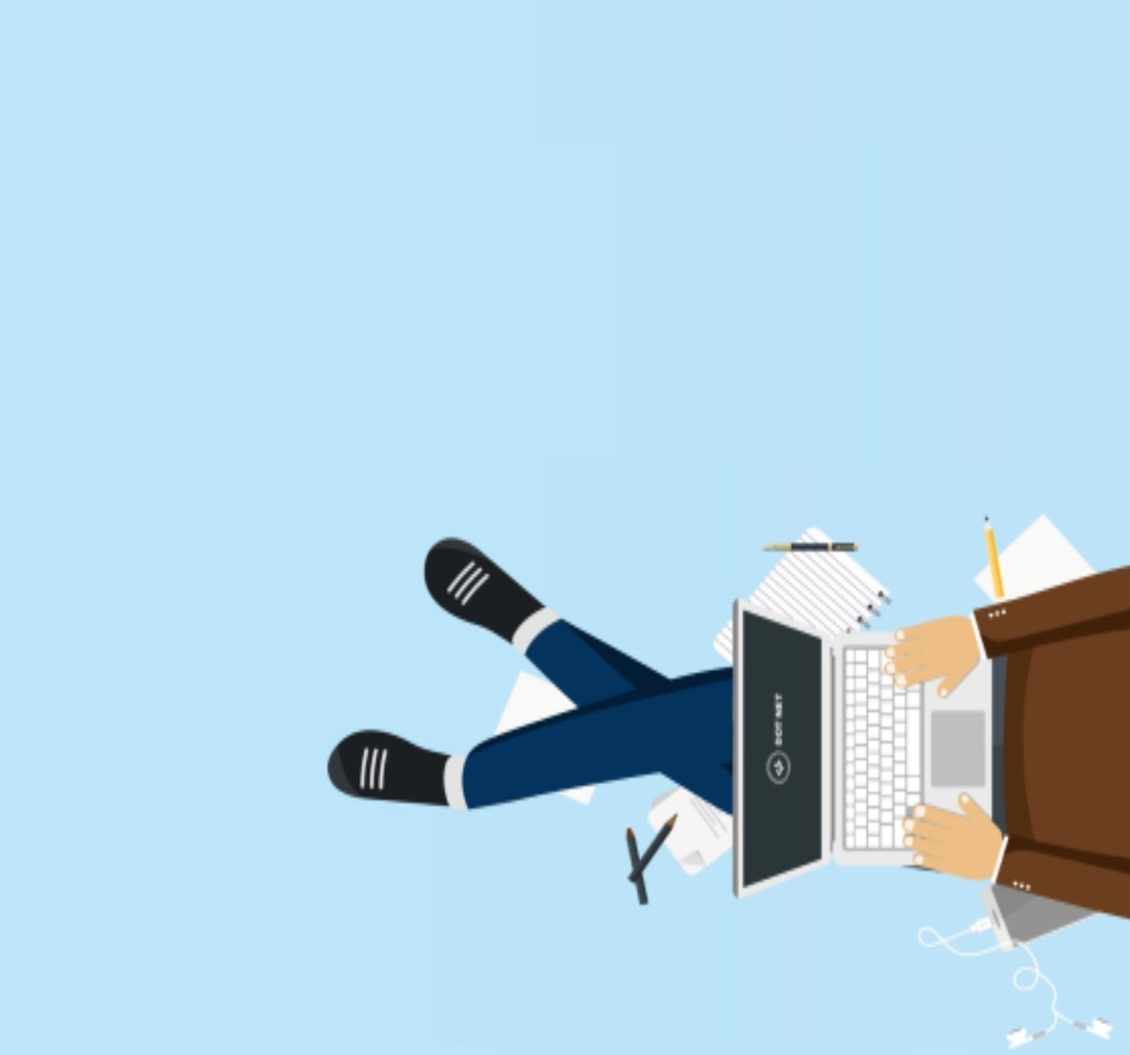
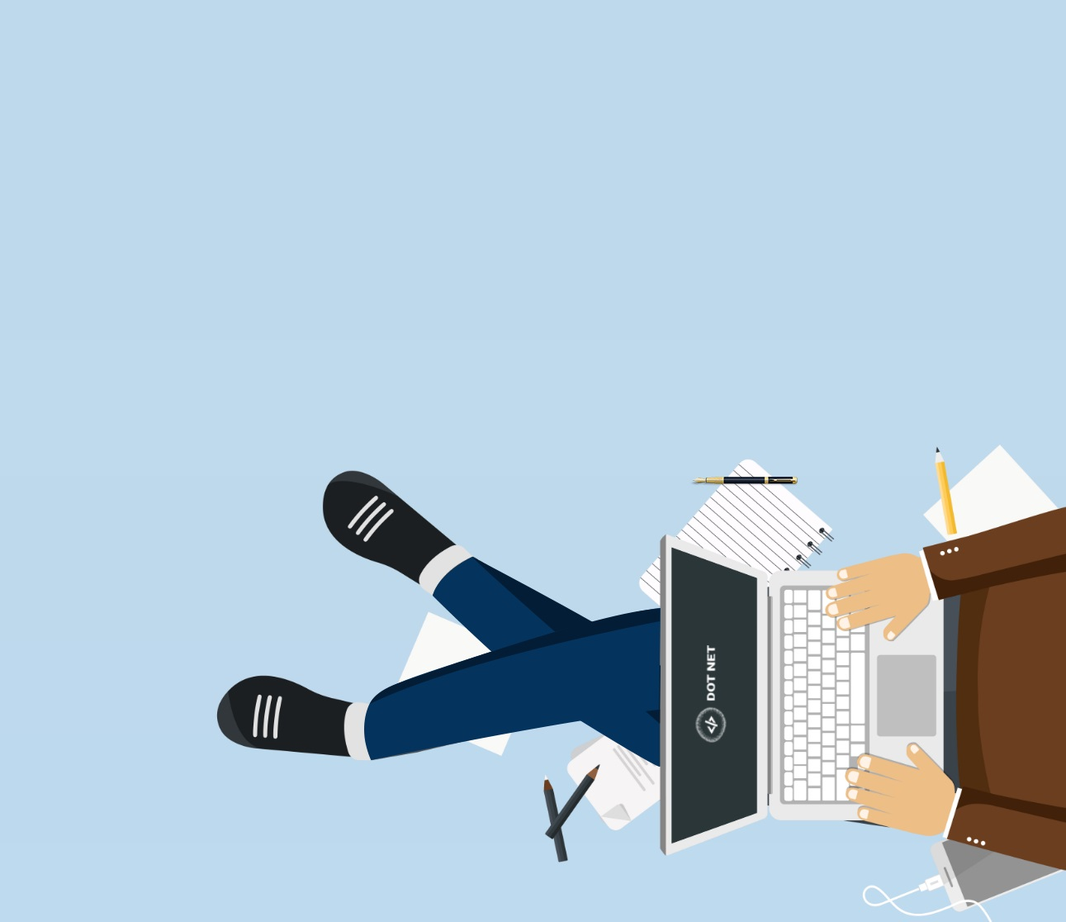
added

Changed region(s): [[0.1859, 0.4875, 1.0, 1.0]]

diff --git a/dist/css/style.min.css b/dist/css/style.min.css
@@ -1,1 +1,1 @@
-@font-face{font-family:Poppins;font-display:swap;src:url(../fonts/Poppins-Medium.woff2) format("woff2"),url(../fonts/Poppins-Medium.woff) format("woff");font-weight:500;font-style:normal}@font-face{font-family:Poppins;font-display:swap;src:url(../fonts/Poppins-Bold.woff2) format("woff2"),url(../fonts/Poppins-Bold.woff) format("woff");font-weight:700;font-style:normal}*{font-family:Poppins,sans-serif;box-sizing:border-box;margin:0;padding:0}.container{max-width:1140px;margin:0 auto;padding:0}.divider{width:60px;height:3px;background:#ffa501;border-radius:4px;margin:25px auto 0 auto}.title{color:#000;font-weight:700;font-size:36px}.title_font-size-14{font-size:14px}.title_font-size-16{font-size:16px;line-height:24px}.title_font-size-20{font-size:21px}.title_font-size-21{font-size:21px}.title_font-size-48{font-size:48px;line-height:60px}.title__section-title{position:relative;text-align:center}.title__section-title:before{position:absolute;content:"";width:36px;height:36px;background-color:#ffa501;border-radius:100%;z-index:-1;top:-25%;left:0}.title__section-title:before{top:-6px;left:50%;transform:translateX(-50%)}.promo{min-height:100vh;position:relative;background:url(../../img/Background.jpg) center center/cover no-repeat;padding-top:206px}.promo__title{width:530px;margin-top:10px}.promo__subtitle{position:relative;padding-left:10px;z-index:4}.promo__subtitle:before{position:absolute;content:"";width:36px;height:36px;background-color:#ffa501;border-radius:100%;z-index:-1;top:-25%;left:0}.promo__btns{margin-top:25px;display:flex;width:250px;align-items:center;justify-content:space-between}.promo__link{color:#000;text-decoration:none;color:#000;font-size:14px;font-weight:700}.btn{height:45px;background:#ffa501;box-shadow:0 4px 4px 0 rgba(0,0,0,.15);padding:12px 25px;border-radius:4px}.sidepanel{position:fixed;top:230px;left:50px;display:flex;flex-direction:column;justify-content:space-between;align-items:center;height:340px;z-index:3}.sidepanel__divider{width:2px;height:70px;background-color:#000}.sidepanel__text{height:150px;width:25px}.sidepanel__text span{display:block;color:#000;margin-top:15px;font-size:16px;font-weight:700;transform:rotate(-90deg) translate(-30%,-260%);width:150px}.hamburger{position:absolute;top:30px;right:40px;height:22px;display:flex;flex-direction:column;justify-content:space-between;align-items:flex-end;cursor:pointer}.hamburger span{display:block;width:30px;height:4px;background-color:#151812}.hamburger span.long{width:36px}.menu{position:fixed;left:-100%;top:0;z-index:10;visibility:hidden;transition:all .6s;opacity:0;width:100%;height:100vh}.menu__block{position:relative;width:345px;background-color:#ffa501;height:100%;transition:all .6s;padding-top:140px;padding-left:40px;z-index:10}.menu_active{left:0;visibility:visible;opacity:1}.menu__close{position:absolute;top:25px;right:25px;cursor:pointer}.menu__list{list-style-type:none;padding-left:32px}.menu__link{position:relative;font-size:24px;font-weight:700;margin-bottom:15px}.menu__link::before{content:"";position:absolute;width:15px;height:15px;border:1px solid #000;border-radius:100%;left:-35px;top:10px;transition:all .6s}.menu__link:hover::before{content:"";background-color:#fff;border:none}.menu__link a{color:#fff;text-decoration:none}.menu__social{width:140px;position:absolute;display:flex;align-items:center;justify-content:space-between;bottom:50px;left:50%;transform:translateX(-50%)}.menu__overlay{position:fixed;top:0;left:0;width:100%;height:100%;background-color:#000;opacity:.85}.about{padding-top:120px}.about__wrapper{display:grid;grid-template-columns:400px 670px;grid-template-rows:minmax(245px,auto) minmax(120px,auto);grid-auto-rows:minmax(245px,auto);-moz-column-gap:70px;column-gap:70px;row-gap:40px}.about__photo{grid-row:1/3}.about__photo img{width:100%}.about__title{position:relative;padding-left:12px}.about__title:before{position:absolute;content:"";width:36px;height:36px;background-color:#ffa501;border-radius:100%;z-index:-1;top:-25%;left:0}.about__descr{padding-top:5px}.about__descr .divider{margin:4px 0 0 0}.about__text{color:#000;font-size:14px;font-weight:500;margin-top:20px}.about__skills{display:grid;grid-template:repeat(1,minmax(110px,auto))/repeat(2,310px);grid-auto-rows:1fr;-moz-column-gap:50px;column-gap:50px;row-gap:20px}.about__skills-item{display:grid;grid-template-columns:40px 250px;-moz-column-gap:20px;column-gap:20px}.about__skills-circle{position:relative;padding-top:15px;padding-left:15px}.about__skills-circle:before{position:absolute;content:"";width:36px;height:36px;background-color:#ffa501;border-radius:100%;z-index:-1;top:-25%;left:0}.about__skills-circle:before{top:0}.about__skills-text{font-size:12px;font-weight:500;margin-top:6px}.resume{padding-top:120px}.resume__subtitle{text-align:center}.resume__wrapper{display:grid;grid-template-columns:repeat(2,425px);padding:60px 65px 0 65px;-moz-column-gap:135px;column-gap:135px}.resume__column-title{position:relative;padding-left:43px}.resume__column-title:before{content:"";position:absolute;height:15px;width:15px;background-color:#ffa501;border-radius:100%;left:-7px;top:50%;transform:translateY(-50%)}.resume__column ul{list-style-type:none}.resume__column ul li{position:relative}.resume__column ul li:after{content:"";width:1px;height:calc(100% + 7px);position:absolute;top:-9px;left:0;background-color:#000}.resume__item{padding-left:43px;position:relative}.resume__item:before{content:"";height:1px;width:44px;position:absolute;background-color:#000;left:0;top:69px}.resume__item-head{position:relative;padding:45px 0 0 56px}.resume__item-head h4{margin-bottom:0}.resume__item-body{margin-top:12px;font-size:12px;font-weight:500}.resume__item-icon{position:absolute;top:65px;left:18px}.resume__item-icon:before{position:absolute;content:"";width:36px;height:36px;background-color:#ffa501;border-radius:100%;z-index:-1;top:-25%;left:0}.resume__item-icon:before{top:-44%;left:-18px}.resume__item-location{color:#000;font-size:12px;font-weight:500;margin-top:3px}.skills{padding:120px 0 0 0}.skills__subtitle{margin-top:6px;text-align:center}.skills__wrapper{display:grid;grid-template:repeat(2,minmax(270px,auto))/repeat(4,minmax(270px,auto));gap:13px;grid-auto-rows:minmax(270px,auto);justify-content:center;margin-top:60px}.skills__item{padding:30px 30px;border:1px solid #000;background:rgba(196,196,196,0)}.skills__item img{height:65px;max-width:162px}.skills__item-title{margin-top:20px}.skills__item-text{margin-top:15px;font-size:12px;font-weight:500}.skills__ratings{margin-top:120px;display:grid;grid-template:repeat(2,minmax(70px,auto))/repeat(3,350px);-moz-column-gap:45px;column-gap:45px;row-gap:35px}.skills__ratings-item{display:grid;grid-template:minmax(21px,auto) 14px/200px 35px;justify-content:space-between;align-content:space-between}.skills__ratings-title{position:relative;padding:2px 0 0 13px}.skills__ratings-title:before{position:absolute;content:"";width:36px;height:36px;background-color:#ffa501;border-radius:100%;z-index:-1;top:-25%;left:0}.skills__ratings-counter{font-size:14px;line-height:21px}.skills__ratings-line{width:350px;height:14px;background-color:#e8e4de;border-radius:4px;grid-column:1/3}.skills__ratings-line span{display:block;height:100%;background-color:#ffa501;border-radius:4px}.portfolio{padding-top:120px}.portfolio__subtitle{text-align:center;margin-top:6px}.portfolio__works{margin-top:60px;display:grid;grid-template:repeat(2,280px)/repeat(4,280px);grid-auto-rows:280px;gap:5px}.portfolio__works a{transition:all .5s;border:1px solid #fff}.portfolio__works a:hover{border:1px solid #ffa501;box-shadow:0 0 15px #ffa501;transform:scale(1.01)}.portfolio__works-item_vertical{grid-row:1/3;grid-column:4/5}.portfolio__works-item_horizontal{grid-row:2/3;grid-column:2/4}.price{padding-top:60px}.price-list{margin-top:60px;display:grid;grid-template:repeat(3,45px)/repeat(2,370px);-moz-column-gap:300px;column-gap:300px;row-gap:15px;justify-content:center}.price-list__item{margin-left:25px}.price-list__item-header{position:relative;display:flex;align-items:center;justify-content:space-between;font-size:14px;font-weight:700}.price-list__item-header:before{content:"";position:absolute;height:15px;width:15px;background-color:#ffa501;border-radius:100%;left:-25px;top:50%;transform:translateY(-50%)}.price-list__item-text{margin-top:3px;font-size:12px;font-weight:500}.contacts{padding-bottom:20px}.contacts__wrapper{padding:0 35px 0 52px;display:grid;grid-template-columns:500px 500px;justify-content:center}.contacts__photo{display:flex;align-items:center}.contacts__photo img{width:100%}.contacts__title{position:relative;padding-left:12px}.contacts__title:before{position:absolute;content:"";width:36px;height:36px;background-color:#ffa501;border-radius:100%;z-index:-1;top:-25%;left:0}.contacts__descr{padding-top:150px}.contacts__descr .divider{margin:4px 0 0 0}.contacts__subtitle{margin-top:6px}.contacts__social,.contacts__text{margin-top:20px}.contacts__link{margin-right:25px}.contacts__link img{max-width:30px;max-height:30px}.contacts__form{margin-top:30px;display:grid;grid-template:45px 190px 45px/repeat(2,280px);justify-content:space-between;row-gap:28px}.contacts__form label{display:block;position:absolute;background-color:#fff;height:18px;padding:0 8px;top:-9px;left:12px;font-size:12px;font-weight:500;margin-bottom:0}.contacts__triggers{grid-column:1/3;display:grid;grid-template-columns:repeat(2,auto);align-items:center;-moz-column-gap:35px;column-gap:35px}.contacts__pocily{font-size:12px;line-height:14px;display:flex;align-items:center}.contacts__pocily input{margin-right:10px}.contacts__input{position:relative}.contacts__input input{width:100%;height:100%;padding:0 20px;font-size:12px;font-weight:500}.contacts__textarea{grid-column:1/3;position:relative}.contacts__textarea textarea{padding:20px 20px;width:100%;height:100%;resize:none;font-size:12px;font-weight:500}.contacts__btn{border:none;font-size:14px;font-weight:700;cursor:pointer}.contacts__btn:hover{border:1px solid #ffa501;box-shadow:0 0 10px #ffa501}.policy{padding:80px 0}.policy__text{margin-top:20px}.policy-subtitle{margin-top:20px}.policy ul{margin-left:40px;margin-top:20px;list-style-type:none;line-height:30px}.policy__table{margin-top:20px;display:grid;grid-template-columns:380px auto;border:1px solid #000}.policy__table-item{border:1px solid #000;padding:20px}@media(max-width:1439px){.sidepanel{display:none}}@media(max-width:1200px){.container{max-width:960px}.about__wrapper{grid-template-columns:400px 520px;-moz-column-gap:40px;column-gap:40px}.about__skills{-moz-column-gap:20px;column-gap:20px;grid-template:repeat(1,minmax(115px,auto))/repeat(2,250px)}.about__skills-item{grid-template-columns:40px 195px;-moz-column-gap:15px;column-gap:15px}.resume__wrapper{grid-template-columns:repeat(2,375px);-moz-column-gap:80px;column-gap:80px}.skills__wrapper{grid-template-columns:repeat(auto-fit,minmax(270px,auto))}.skills__ratings{grid-template-columns:repeat(auto-fit,450px);grid-auto-rows:70px}.skills__ratings-line{width:100%}.portfolio__works{grid-template-columns:repeat(auto-fit,280px);grid-auto-rows:280px;justify-content:center}.portfolio__works-item_horizontal,.portfolio__works-item_vertical{grid-row:unset;grid-column:unset}.portfolio__works-item img{width:100%;height:100%}.price-list{-moz-column-gap:200px;column-gap:200px}.contacts__wrapper{padding:0;grid-template-columns:500px 500px}.contacts__form{grid-template:45px 190px 45px/repeat(2,250px)}.contacts__photo img{height:100%;-o-object-fit:cover;object-fit:cover}}@media(max-width:992px){.promo{background:url(../../img/Background-mid.jpg) center center/cover no-repeat}.container{max-width:720px}.about__title{text-align:center;padding-left:0}.about__title:before{left:50%;transform:translateX(-50%)}.about__subtitle{text-align:center}.about .divider{margin:10px auto}.about__wrapper{grid-template:580px auto auto/1fr}.about__photo{grid-row:unset;text-align:center}.about__photo img{height:100%}.about__skills{-moz-column-gap:20px;column-gap:20px;justify-content:center;grid-template:repeat(1,minmax(120px,auto))/repeat(2,260px)}.about__skills-item{grid-template-columns:40px 190px}.resume{padding-top:100px}.resume__wrapper{grid-template-columns:1fr;row-gap:40px}.skills{padding-top:100px}.skills__wrapper{grid-template-columns:repeat(2,minmax(270px,auto))}.skills__ratings{grid-template:repeat(3,minmax(70px,auto))/repeat(2,1fr)}.portfolio{padding-top:100px}.price-list{grid-template-columns:repeat(auto-fit,370px);row-gap:20px}.contacts{padding:100px}.contacts__wrapper{grid-template-columns:300px 400px}.contacts__form{grid-template:45px 190px 45px/repeat(2,195px)}.contacts__btn{padding:8px 25px;line-height:16px}.contacts__descr{padding-top:65px}}@media(max-width:768px){.container{max-width:540px}.title_font-size-48{font-size:28px}.promo__title{width:300px;line-height:39px}.about__title{text-align:center}.about__title:before{left:50%;transform:translateX(-50%)}.about__subtitle{text-align:center}.about .divider{margin:10px auto}.about__wrapper{grid-template:400px auto auto/1fr}.about__photo{grid-row:unset;text-align:center}.about__skills{-moz-column-gap:20px;column-gap:20px;grid-template:repeat(1,minmax(120px,auto))/repeat(2,260px)}.about__skills-item{grid-template-columns:40px 190px}.portfolio__works{grid-template:repeat(auto-fit,260px)/repeat(auto-fit,260px);grid-auto-rows:260px}.contacts{padding:100px 0 100px 0}.contacts__title{padding:0}.contacts__title:before{left:50%;transform:translateX(-50%)}.contacts__photo{display:none}.contacts__wrapper{grid-template-columns:1fr}.contacts__form{grid-template:45px 190px 45px/repeat(2,250px)}.contacts__descr{text-align:center;padding-top:65px;padding:0}.contacts__descr .divider{margin:10px auto}.contacts__social{display:flex;justify-content:center;gap:25px}.contacts__social a{margin:0}}@media(max-width:576px){.container{width:100%;padding:0 10px}.divider{margin-top:15px}.title_font-size-48{font-size:26px}.hamburger{right:20px}.menu__block{width:250px;padding-left:20px}.promo{background:url(../img/Background-mid.jpg) center center/cover no-repeat}.promo__btns{margin-top:30px}.about{padding-top:40px}.about__subtitle{font-size:26px}.about__wrapper{grid-template:340px auto auto/1fr}.about__skills{-moz-column-gap:20px;column-gap:20px;grid-template-columns:1fr}.about__skills-item{grid-template-columns:40px 240px}.resume{padding-top:40px}.resume__subtitle{font-size:24px;margin-top:20px}.resume__wrapper{padding:0;margin-top:40px}.skills{padding-top:40px}.skills__subtitle{font-size:24px;margin-top:20px}.skills__wrapper{margin:20px 25px 0 25px;grid-template-columns:1fr;gap:20px}.skills__ratings{grid-template-columns:1fr;margin-top:40px;gap:48px}.portfolio{padding-top:40px}.portfolio__subtitle{font-size:24px;margin-top:20px}.portfolio__works{margin-top:40px}.price{padding-top:40px}.price-list{margin-top:20px;grid-template:repeat(auto-fit,60px)/repeat(auto-fit,300px);row-gap:20px}.contacts{padding-bottom:80px}.contacts__title{padding:0}.contacts__title:before{left:50%;transform:translateX(-50%)}.contacts__subtitle{font-size:24px;margin-top:20px}.contacts__form{grid-template:45px 45px 190px minmax(45px,auto)/1fr}.contacts__textarea{grid-column:unset;width:100%}.contacts__triggers{grid-column:unset;grid-template-columns:1fr;-moz-column-gap:unset;column-gap:unset;row-gap:20px}.contacts__btn{order:2;max-width:220px;margin:0 auto}.contacts__pocily{width:180px;margin:0 auto;line-height:18px}.contacts__descr{text-align:center;padding:0}.contacts__descr .divider{margin:10px auto}.contacts__social{display:flex;justify-content:center;gap:25px}.contacts__social a{margin:0}}@media(max-width:320px){.promo{background:url(../../img/Background-mini.png) center center/cover no-repeat}.about__photo img{height:90%;width:100%}}
+@font-face{font-family:Poppins;font-display:swap;src:url(../fonts/Poppins-Medium.woff2) format("woff2"),url(../fonts/Poppins-Medium.woff) format("woff");font-weight:500;font-style:normal}@font-face{font-family:Poppins;font-display:swap;src:url(../fonts/Poppins-Bold.woff2) format("woff2"),url(../fonts/Poppins-Bold.woff) format("woff");font-weight:700;font-style:normal}*{font-family:Poppins,sans-serif;box-sizing:border-box;margin:0;padding:0}.container{max-width:1140px;margin:0 auto;padding:0}.divider{width:60px;height:3px;background:#ffa501;border-radius:4px;margin:25px auto 0 auto}.title{color:#000;font-weight:700;font-size:36px}.title_font-size-14{font-size:14px}.title_font-size-16{font-size:16px;line-height:24px}.title_font-size-20{font-size:21px}.title_font-size-21{font-size:21px}.title_font-size-48{font-size:48px;line-height:60px}.title__section-title{position:relative;text-align:center}.title__section-title:before{position:absolute;content:"";width:36px;height:36px;background-color:#ffa501;border-radius:100%;z-index:-1;top:-25%;left:0}.title__section-title:before{top:-6px;left:50%;transform:translateX(-50%)}.promo{min-height:100vh;position:relative;background:url(../../img/Background.jpg) center center/cover no-repeat;padding-top:206px}.promo__title{width:530px;margin-top:10px}.promo__subtitle{position:relative;padding-left:10px;z-index:4}.promo__subtitle:before{position:absolute;content:"";width:36px;height:36px;background-color:#ffa501;border-radius:100%;z-index:-1;top:-25%;left:0}.promo__btns{margin-top:25px;display:flex;width:250px;align-items:center;justify-content:space-between}.promo__link{color:#000;text-decoration:none;color:#000;font-size:14px;font-weight:700}.btn{height:45px;background:#ffa501;box-shadow:0 4px 4px 0 rgba(0,0,0,.15);padding:12px 25px;border-radius:4px}.sidepanel{position:fixed;top:230px;left:50px;display:flex;flex-direction:column;justify-content:space-between;align-items:center;height:340px;z-index:3}.sidepanel__divider{width:2px;height:70px;background-color:#000}.sidepanel__text{height:150px;width:25px}.sidepanel__text span{display:block;color:#000;margin-top:15px;font-size:16px;font-weight:700;transform:rotate(-90deg) translate(-30%,-260%);width:150px}.hamburger{position:absolute;top:30px;right:40px;height:22px;display:flex;flex-direction:column;justify-content:space-between;align-items:flex-end;cursor:pointer}.hamburger span{display:block;width:30px;height:4px;background-color:#151812}.hamburger span.long{width:36px}.menu{position:fixed;left:-100%;top:0;z-index:10;visibility:hidden;transition:all .6s;opacity:0;width:100%;height:100vh}.menu__block{position:relative;width:345px;background-color:#ffa501;height:100%;transition:all .6s;padding-top:140px;padding-left:40px;z-index:10}.menu_active{left:0;visibility:visible;opacity:1}.menu__close{position:absolute;top:25px;right:25px;cursor:pointer}.menu__list{list-style-type:none;padding-left:32px}.menu__link{position:relative;font-size:24px;font-weight:700;margin-bottom:15px}.menu__link::before{content:"";position:absolute;width:15px;height:15px;border:1px solid #000;border-radius:100%;left:-35px;top:10px;transition:all .6s}.menu__link:hover::before{content:"";background-color:#fff;border:none}.menu__link a{color:#fff;text-decoration:none}.menu__social{width:140px;position:absolute;display:flex;align-items:center;justify-content:space-between;bottom:50px;left:50%;transform:translateX(-50%)}.menu__overlay{position:fixed;top:0;left:0;width:100%;height:100%;background-color:#000;opacity:.85}.about{padding-top:120px}.about__wrapper{display:grid;grid-template-columns:400px 670px;grid-template-rows:minmax(245px,auto) minmax(120px,auto);grid-auto-rows:minmax(245px,auto);-moz-column-gap:70px;column-gap:70px;row-gap:40px}.about__photo{grid-row:1/3}.about__photo img{width:100%}.about__title{position:relative;padding-left:12px}.about__title:before{position:absolute;content:"";width:36px;height:36px;background-color:#ffa501;border-radius:100%;z-index:-1;top:-25%;left:0}.about__descr{padding-top:5px}.about__descr .divider{margin:4px 0 0 0}.about__text{color:#000;font-size:14px;font-weight:500;margin-top:20px}.about__skills{display:grid;grid-template:repeat(1,minmax(110px,auto))/repeat(2,310px);grid-auto-rows:1fr;-moz-column-gap:50px;column-gap:50px;row-gap:20px}.about__skills-item{display:grid;grid-template-columns:40px 250px;-moz-column-gap:20px;column-gap:20px}.about__skills-circle{position:relative;padding-top:15px;padding-left:15px}.about__skills-circle:before{position:absolute;content:"";width:36px;height:36px;background-color:#ffa501;border-radius:100%;z-index:-1;top:-25%;left:0}.about__skills-circle:before{top:0}.about__skills-text{font-size:12px;font-weight:500;margin-top:6px}.resume{padding-top:120px}.resume__subtitle{text-align:center}.resume__wrapper{display:grid;grid-template-columns:repeat(2,425px);padding:60px 65px 0 65px;-moz-column-gap:135px;column-gap:135px}.resume__column-title{position:relative;padding-left:43px}.resume__column-title:before{content:"";position:absolute;height:15px;width:15px;background-color:#ffa501;border-radius:100%;left:-7px;top:50%;transform:translateY(-50%)}.resume__column ul{list-style-type:none}.resume__column ul li{position:relative}.resume__column ul li:after{content:"";width:1px;height:calc(100% + 7px);position:absolute;top:-9px;left:0;background-color:#000}.resume__item{padding-left:43px;position:relative}.resume__item:before{content:"";height:1px;width:44px;position:absolute;background-color:#000;left:0;top:69px}.resume__item-head{position:relative;padding:45px 0 0 56px}.resume__item-head h4{margin-bottom:0}.resume__item-body{margin-top:12px;font-size:12px;font-weight:500}.resume__item-icon{position:absolute;top:65px;left:18px}.resume__item-icon:before{position:absolute;content:"";width:36px;height:36px;background-color:#ffa501;border-radius:100%;z-index:-1;top:-25%;left:0}.resume__item-icon:before{top:-44%;left:-18px}.resume__item-location{color:#000;font-size:12px;font-weight:500;margin-top:3px}.skills{padding:120px 0 0 0}.skills__subtitle{margin-top:6px;text-align:center}.skills__wrapper{display:grid;grid-template:repeat(2,minmax(270px,auto))/repeat(4,minmax(270px,auto));gap:13px;grid-auto-rows:minmax(270px,auto);justify-content:center;margin-top:60px}.skills__item{padding:30px 30px;border:1px solid #000;background:rgba(196,196,196,0)}.skills__item img{height:65px;max-width:162px}.skills__item-title{margin-top:20px}.skills__item-text{margin-top:15px;font-size:12px;font-weight:500}.skills__ratings{margin-top:120px;display:grid;grid-template:repeat(2,minmax(70px,auto))/repeat(3,350px);-moz-column-gap:45px;column-gap:45px;row-gap:35px}.skills__ratings-item{display:grid;grid-template:minmax(21px,auto) 14px/200px 35px;justify-content:space-between;align-content:space-between}.skills__ratings-title{position:relative;padding:2px 0 0 13px}.skills__ratings-title:before{position:absolute;content:"";width:36px;height:36px;background-color:#ffa501;border-radius:100%;z-index:-1;top:-25%;left:0}.skills__ratings-counter{font-size:14px;line-height:21px}.skills__ratings-line{width:350px;height:14px;background-color:#e8e4de;border-radius:4px;grid-column:1/3}.skills__ratings-line span{display:block;height:100%;background-color:#ffa501;border-radius:4px}.portfolio{padding-top:120px}.portfolio__subtitle{text-align:center;margin-top:6px}.portfolio__works{margin-top:60px;display:grid;grid-template:repeat(2,280px)/repeat(4,280px);grid-auto-rows:280px;gap:5px}.portfolio__works a{transition:all .5s;border:1px solid #fff}.portfolio__works a:hover{border:1px solid #ffa501;box-shadow:0 0 15px #ffa501;transform:scale(1.01)}.portfolio__works-item_vertical{grid-row:1/3;grid-column:4/5}.portfolio__works-item_horizontal{grid-row:2/3;grid-column:2/4}.price{padding-top:60px}.price-list{margin-top:60px;display:grid;grid-template:repeat(3,45px)/repeat(2,370px);-moz-column-gap:300px;column-gap:300px;row-gap:15px;justify-content:center}.price-list__item{margin-left:25px}.price-list__item-header{position:relative;display:flex;align-items:center;justify-content:space-between;font-size:14px;font-weight:700}.price-list__item-header:before{content:"";position:absolute;height:15px;width:15px;background-color:#ffa501;border-radius:100%;left:-25px;top:50%;transform:translateY(-50%)}.price-list__item-text{margin-top:3px;font-size:12px;font-weight:500}.contacts{padding-bottom:20px}.contacts__wrapper{padding:0 35px 0 52px;display:grid;grid-template-columns:500px 500px;justify-content:center}.contacts__photo{display:flex;align-items:center}.contacts__photo img{width:100%}.contacts__title{position:relative;padding-left:12px}.contacts__title:before{position:absolute;content:"";width:36px;height:36px;background-color:#ffa501;border-radius:100%;z-index:-1;top:-25%;left:0}.contacts__descr{padding-top:150px}.contacts__descr .divider{margin:4px 0 0 0}.contacts__subtitle{margin-top:6px}.contacts__social,.contacts__text{margin-top:20px}.contacts__link{margin-right:25px}.contacts__link img{max-width:30px;max-height:30px}.contacts__form{margin-top:30px;display:grid;grid-template:45px 190px 45px/repeat(2,280px);justify-content:space-between;row-gap:28px}.contacts__form label{display:block;position:absolute;background-color:#fff;height:18px;padding:0 8px;top:-9px;left:12px;font-size:12px;font-weight:500;margin-bottom:0}.contacts__triggers{grid-column:1/3;display:grid;grid-template-columns:repeat(2,auto);align-items:center;-moz-column-gap:35px;column-gap:35px}.contacts__pocily{font-size:12px;line-height:14px;display:flex;align-items:center}.contacts__pocily input{margin-right:10px}.contacts__input{position:relative}.contacts__input input{width:100%;height:100%;padding:0 20px;font-size:12px;font-weight:500}.contacts__textarea{grid-column:1/3;position:relative}.contacts__textarea textarea{padding:20px 20px;width:100%;height:100%;resize:none;font-size:12px;font-weight:500}.contacts__btn{border:none;font-size:14px;font-weight:700;cursor:pointer}.contacts__btn:hover{border:1px solid #ffa501;box-shadow:0 0 10px #ffa501}.policy{padding:80px 0}.policy__text{margin-top:20px}.policy-subtitle{margin-top:20px}.policy ul{margin-left:40px;margin-top:20px;list-style-type:none;line-height:30px}.policy__table{margin-top:20px;display:grid;grid-template-columns:380px auto;border:1px solid #000}.policy__table-item{border:1px solid #000;padding:20px}@media(max-width:1439px){.sidepanel{display:none}}@media(max-width:1200px){.container{max-width:960px}.about__wrapper{grid-template-columns:400px 520px;-moz-column-gap:40px;column-gap:40px}.about__skills{-moz-column-gap:20px;column-gap:20px;grid-template:repeat(1,minmax(115px,auto))/repeat(2,250px)}.about__skills-item{grid-template-columns:40px 195px;-moz-column-gap:15px;column-gap:15px}.resume__wrapper{grid-template-columns:repeat(2,375px);-moz-column-gap:80px;column-gap:80px}.skills__wrapper{grid-template-columns:repeat(auto-fit,minmax(270px,auto))}.skills__ratings{grid-template-columns:repeat(auto-fit,450px);grid-auto-rows:70px}.skills__ratings-line{width:100%}.portfolio__works{grid-template-columns:repeat(auto-fit,280px);grid-auto-rows:280px;justify-content:center}.portfolio__works-item_horizontal,.portfolio__works-item_vertical{grid-row:unset;grid-column:unset}.portfolio__works-item img{width:100%;height:100%}.price-list{-moz-column-gap:200px;column-gap:200px}.contacts__wrapper{padding:0;grid-template-columns:500px 500px}.contacts__form{grid-template:45px 190px 45px/repeat(2,250px)}.contacts__photo img{height:100%;-o-object-fit:cover;object-fit:cover}}@media(max-width:992px){.promo{background:url(../../img/Background-mid.jpg) center center/cover no-repeat}.container{max-width:720px}.about__title{text-align:center;padding-left:0}.about__title:before{left:50%;transform:translateX(-50%)}.about__subtitle{text-align:center}.about .divider{margin:10px auto}.about__wrapper{grid-template:580px auto auto/1fr}.about__photo{grid-row:unset;text-align:center}.about__photo img{height:100%}.about__skills{-moz-column-gap:20px;column-gap:20px;justify-content:center;grid-template:repeat(1,minmax(120px,auto))/repeat(2,260px)}.about__skills-item{grid-template-columns:40px 190px}.resume{padding-top:100px}.resume__wrapper{grid-template-columns:1fr;row-gap:40px}.skills{padding-top:100px}.skills__wrapper{grid-template-columns:repeat(2,minmax(270px,auto))}.skills__ratings{grid-template:repeat(3,minmax(70px,auto))/repeat(2,1fr)}.portfolio{padding-top:100px}.price-list{grid-template-columns:repeat(auto-fit,370px);row-gap:20px}.contacts{padding:100px}.contacts__wrapper{grid-template-columns:300px 400px}.contacts__form{grid-template:45px 190px 45px/repeat(2,195px)}.contacts__btn{padding:8px 25px;line-height:16px}.contacts__descr{padding-top:65px}}@media(max-width:768px){.container{max-width:540px}.title_font-size-48{font-size:28px}.promo__title{width:300px;line-height:39px}.about__title{text-align:center}.about__title:before{left:50%;transform:translateX(-50%)}.about__subtitle{text-align:center}.about .divider{margin:10px auto}.about__wrapper{grid-template:400px auto auto/1fr}.about__photo{grid-row:unset;text-align:center}.about__skills{-moz-column-gap:20px;column-gap:20px;grid-template:repeat(1,minmax(120px,auto))/repeat(2,260px)}.about__skills-item{grid-template-columns:40px 190px}.portfolio__works{grid-template:repeat(auto-fit,260px)/repeat(auto-fit,260px);grid-auto-rows:260px}.contacts{padding:100px 0 100px 0}.contacts__title{padding:0}.contacts__title:before{left:50%;transform:translateX(-50%)}.contacts__photo{display:none}.contacts__wrapper{grid-template-columns:1fr}.contacts__form{grid-template:45px 190px 45px/repeat(2,250px)}.contacts__descr{text-align:center;padding-top:65px;padding:0}.contacts__descr .divider{margin:10px auto}.contacts__social{display:flex;justify-content:center;gap:25px}.contacts__social a{margin:0}}@media(max-width:576px){.promo{padding-top:100px}.container{width:100%;padding:0 10px}.divider{margin-top:15px}.title_font-size-48{font-size:26px}.hamburger{right:20px}.menu__block{width:250px;padding-left:20px}.about{padding-top:40px}.about__subtitle{font-size:26px}.about__wrapper{grid-template:340px auto auto/1fr}.about__skills{-moz-column-gap:20px;column-gap:20px;grid-template-columns:1fr}.about__skills-item{grid-template-columns:40px 240px}.resume{padding-top:40px}.resume__subtitle{font-size:24px;margin-top:20px}.resume__wrapper{padding:0;margin-top:40px}.skills{padding-top:40px}.skills__subtitle{font-size:24px;margin-top:20px}.skills__wrapper{margin:20px 25px 0 25px;grid-template-columns:1fr;gap:20px}.skills__ratings{grid-template-columns:1fr;margin-top:40px;gap:48px}.portfolio{padding-top:40px}.portfolio__subtitle{font-size:24px;margin-top:20px}.portfolio__works{margin-top:40px}.price{padding-top:40px}.price-list{margin-top:20px;grid-template:repeat(auto-fit,60px)/repeat(auto-fit,300px);row-gap:20px}.contacts{padding-bottom:80px}.contacts__title{padding:0}.contacts__title:before{left:50%;transform:translateX(-50%)}.contacts__subtitle{font-size:24px;margin-top:20px}.contacts__form{grid-template:45px 45px 190px minmax(45px,auto)/1fr}.contacts__textarea{grid-column:unset;width:100%}.contacts__triggers{grid-column:unset;grid-template-columns:1fr;-moz-column-gap:unset;column-gap:unset;row-gap:20px}.contacts__btn{order:2;max-width:220px;margin:0 auto}.contacts__pocily{width:180px;margin:0 auto;line-height:18px}.contacts__descr{text-align:center;padding:0}.contacts__descr .divider{margin:10px auto}.contacts__social{display:flex;justify-content:center;gap:25px}.contacts__social a{margin:0}}@media(max-width:320px){.promo{background:url(../../img/Background-mini.png) center center/cover no-repeat}.about__photo img{height:90%;width:100%}}

diff --git a/src/sass/blocks/_media.scss b/src/sass/blocks/_media.scss
@@ -248,6 +248,9 @@
     }
 }
 @media (max-width: 576px) {
+    .promo {
+        padding-top: 100px;
+    }
     .container {
         width: 100%;
         padding: 0 10px;
@@ -267,12 +270,6 @@
         &__block {
             width: 250px;
             padding-left: 20px;
-        }
-    }
-    .promo {
-        background: url('../img/Background-mid.jpg') center (center/cover) no-repeat;
-        &__btns {
-            margin-top: 30px;
         }
     }
     .about {
@@ -390,7 +387,7 @@
         }
     }
 }
-@media (max-width: 320px) { 
+@media (max-width: 320px) {
     .promo {
         background: url('../../img/Background-mini.png') center (center/cover) no-repeat;
     }
